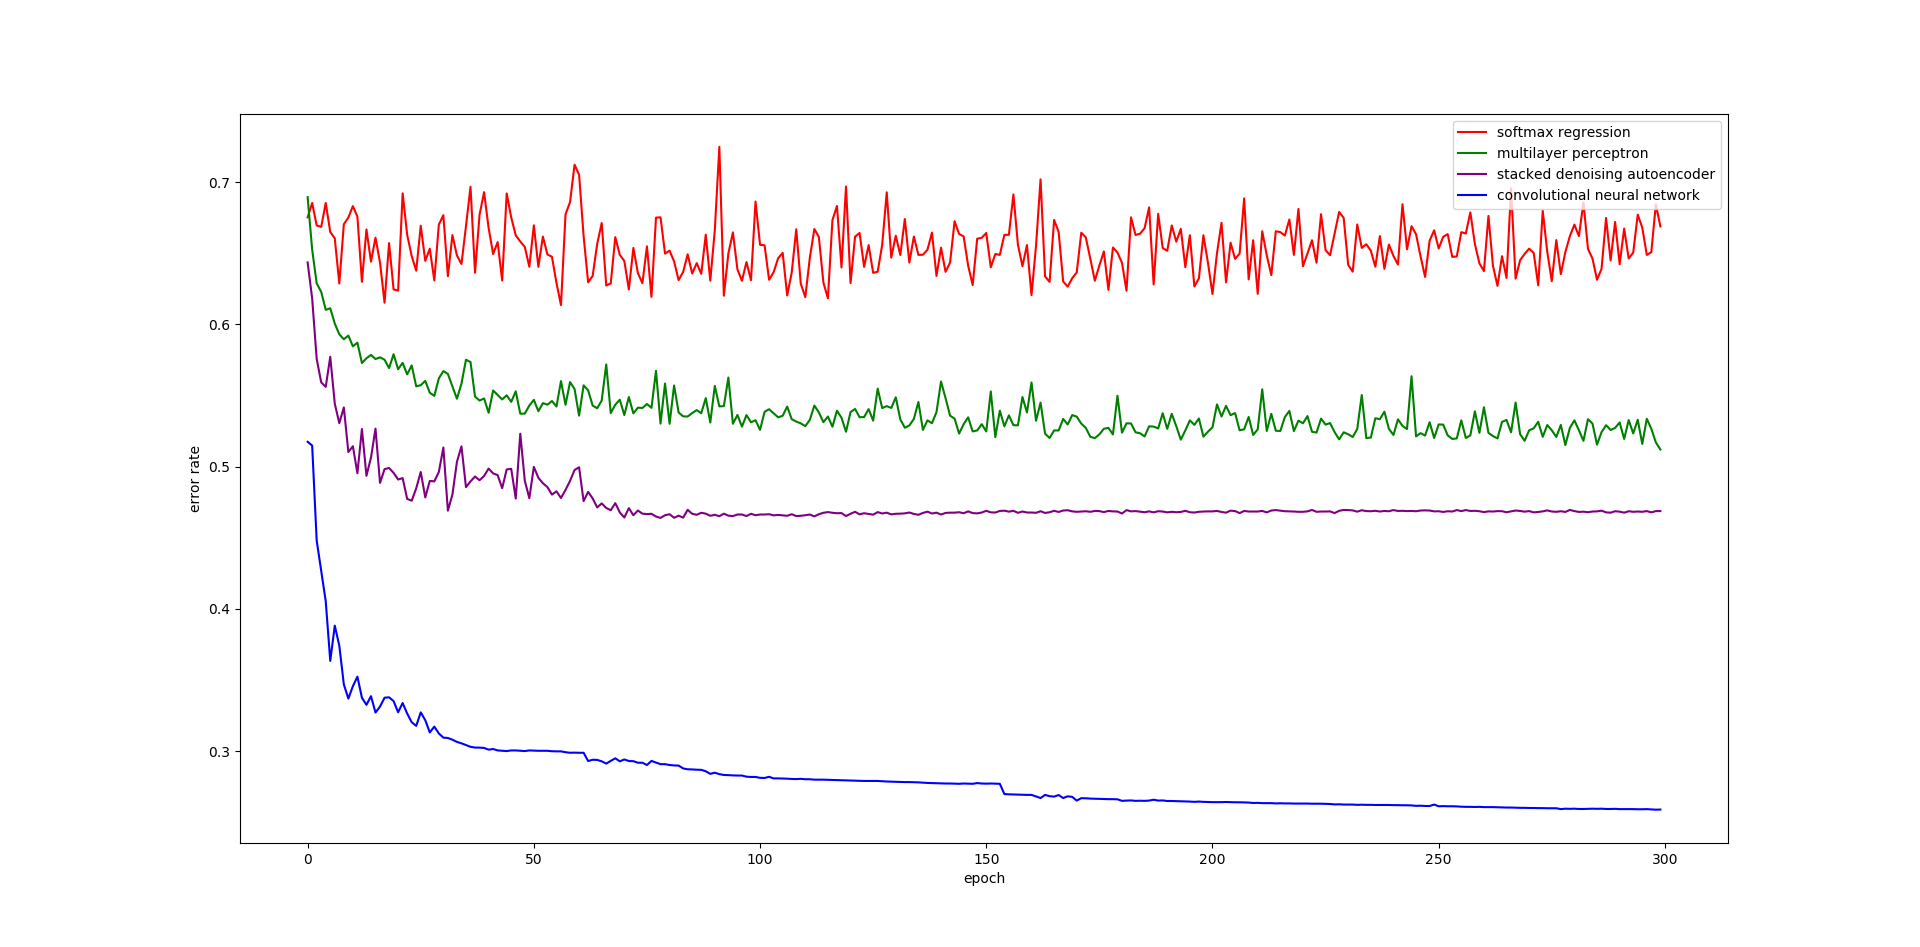
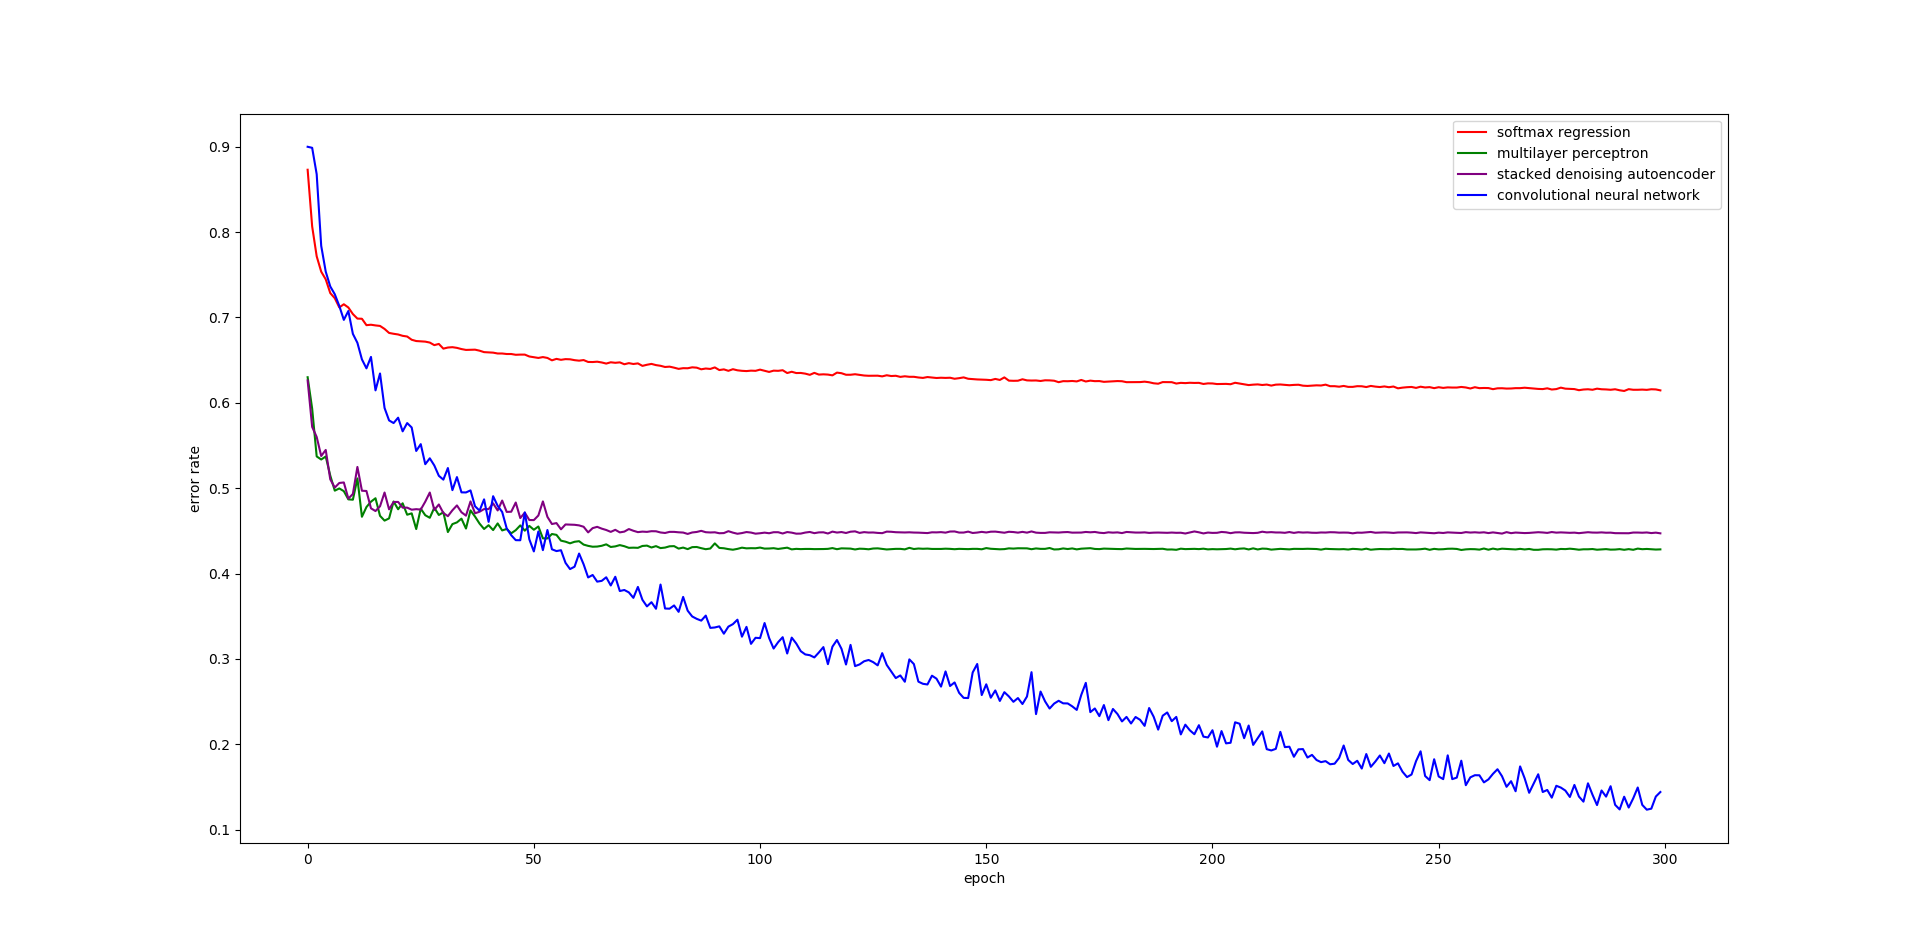
plot

diff --git a/cifar10 classification/mlp.py b/cifar10 classification/mlp.py
@@ -120,16 +120,16 @@ if __name__ == "__main__":
 				c = train_model(
 					new_train_x[n_batch_index*batch_size:(n_batch_index+1)*batch_size], 
 					new_train_y[n_batch_index*batch_size:(n_batch_index+1)*batch_size], 
-					0.01, 0.01
+					0.1, 0.0
 				)
 				train_num = train_num + 1
 				if train_num%options["print_freq"]==0:
 					print("train num: %d, cost: %lf"%(train_num, c))
 				
 				if train_num%options["valid_freq"]==0:
-					train_errors = [train_err(train_x[n_batch_index*batch_size:(n_batch_index+1)*batch_size], train_y[n_batch_index*batch_size:(n_batch_index+1)*batch_size], 0.01, 0.01) for n_batch_index in range(n_train_batch)]
+					train_errors = [train_err(train_x[n_batch_index*batch_size:(n_batch_index+1)*batch_size], train_y[n_batch_index*batch_size:(n_batch_index+1)*batch_size], 0.1, 0.0) for n_batch_index in range(n_train_batch)]
 
-					test_errors = [test_err(test_x[n_test_index*batch_size:(n_test_index+1)*batch_size], test_y[n_test_index*batch_size:(n_test_index+1)*batch_size], 0.01, 0.01) for n_test_index in range(n_test_batch)]
+					test_errors = [test_err(test_x[n_test_index*batch_size:(n_test_index+1)*batch_size], test_y[n_test_index*batch_size:(n_test_index+1)*batch_size], 0.1, 0.0) for n_test_index in range(n_test_batch)]
 					
 					if numpy.mean(test_errors) < best_err:
 						best_err = numpy.mean(test_errors)
@@ -140,7 +140,7 @@ if __name__ == "__main__":
 						
 						print("train num: %d, best train error: %lf, best test error: %lf"%(train_num, numpy.mean(train_errors), numpy.mean(test_errors)))
 			print("epoch %d end"%epoch)
-			test_errors = [test_err(test_x[n_test_index*batch_size:(n_test_index+1)*batch_size], test_y[n_test_index*batch_size:(n_test_index+1)*batch_size], 0.01, 0.0) for n_test_index in range(n_test_batch)]
+			test_errors = [test_err(test_x[n_test_index*batch_size:(n_test_index+1)*batch_size], test_y[n_test_index*batch_size:(n_test_index+1)*batch_size], 0.1, 0.0) for n_test_index in range(n_test_batch)]
 			print("%lf"%numpy.mean(test_errors), file=error_output)
 	
 	
